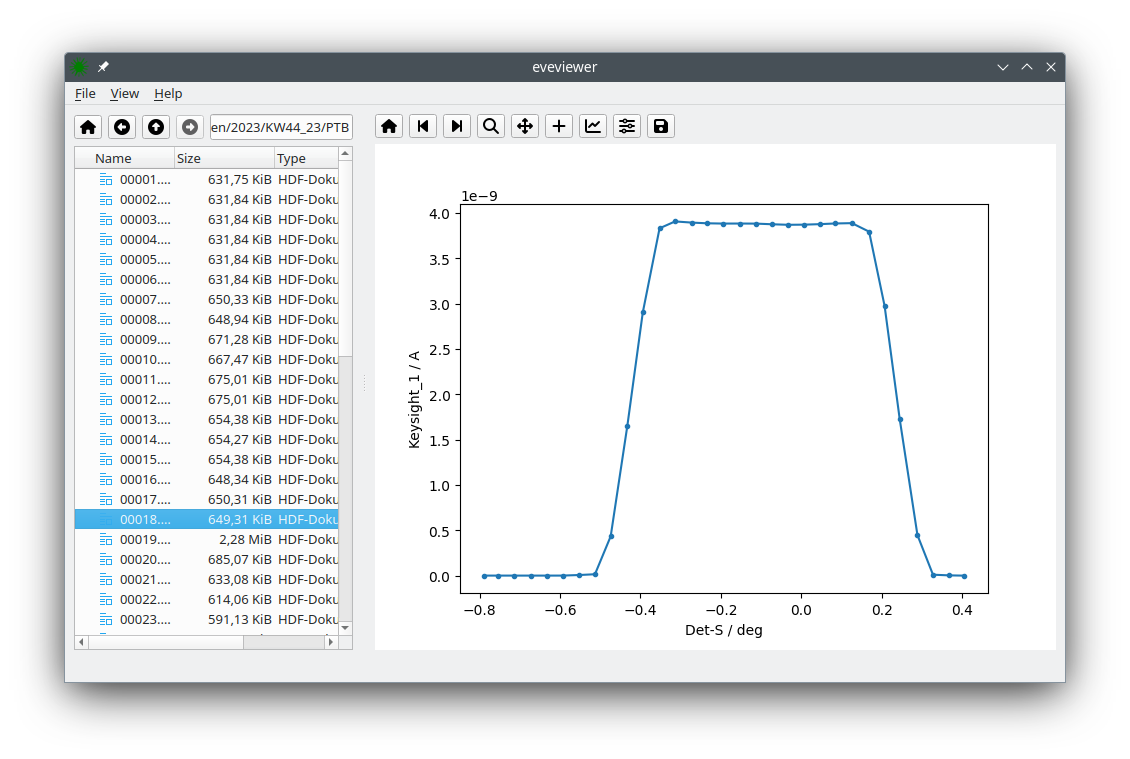
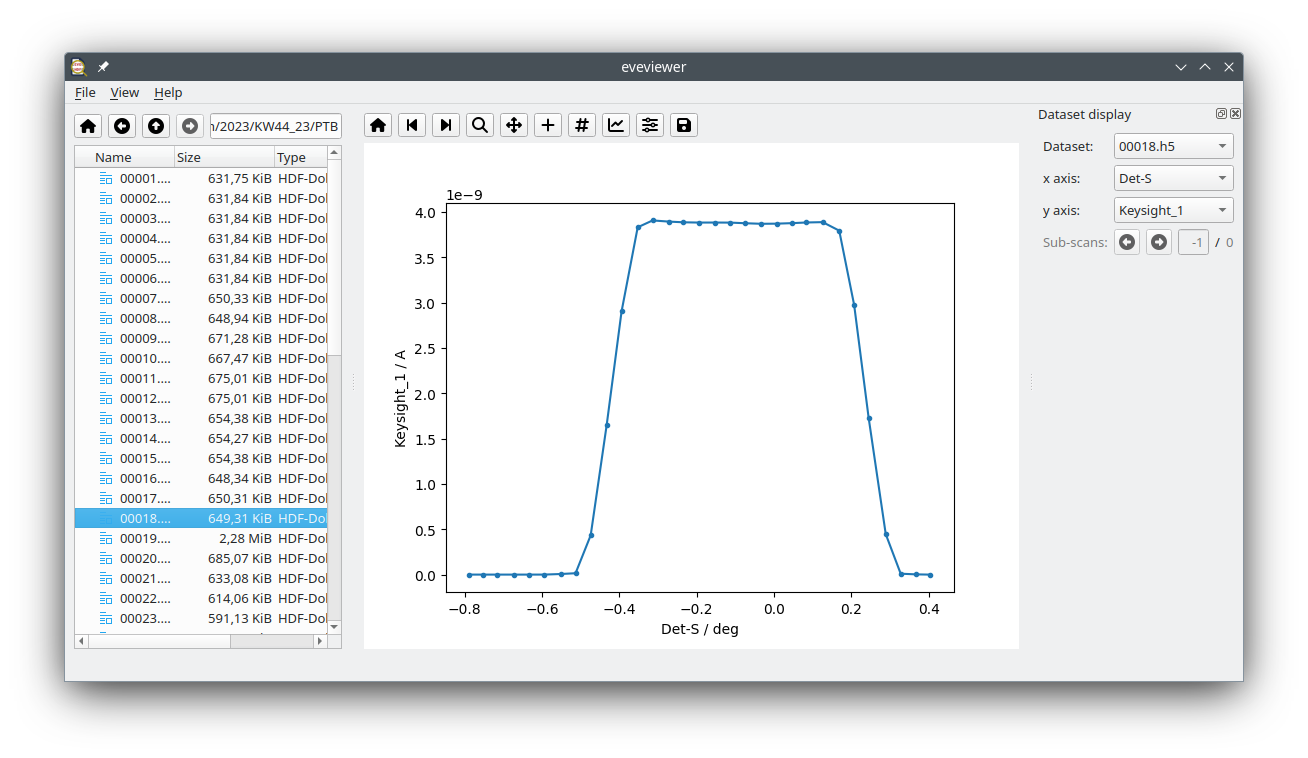
Update screenshot

diff --git a/docs/index.rst b/docs/index.rst
@@ -17,7 +17,7 @@ This will open the eveviewer GUI and get you started.
 .. figure:: images/eveviewer-screenshot.png
    :align: center
 
-   Screenshot of the eveviewer GUI with a dataset loaded. The central element is the graphical display of the data, while the file browser allows for conveniently browsing directories and files and selecting (multiple) datasets to be displayed.
+   Screenshot of the eveviewer GUI with a dataset loaded. The central element is the graphical display of the data, while the file browser allows for conveniently browsing directories and files and selecting (multiple) datasets to be displayed. On the right you can see a dockable widget for display settings.
 
 
 Features
